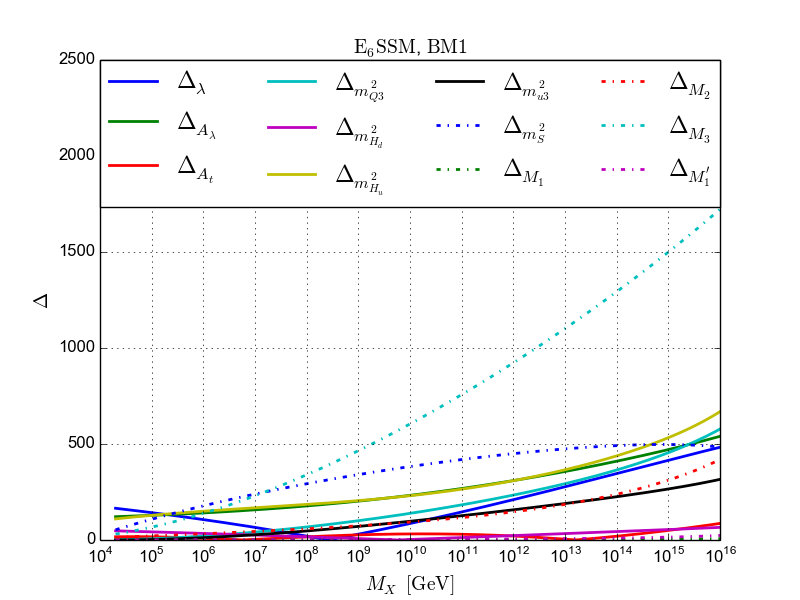
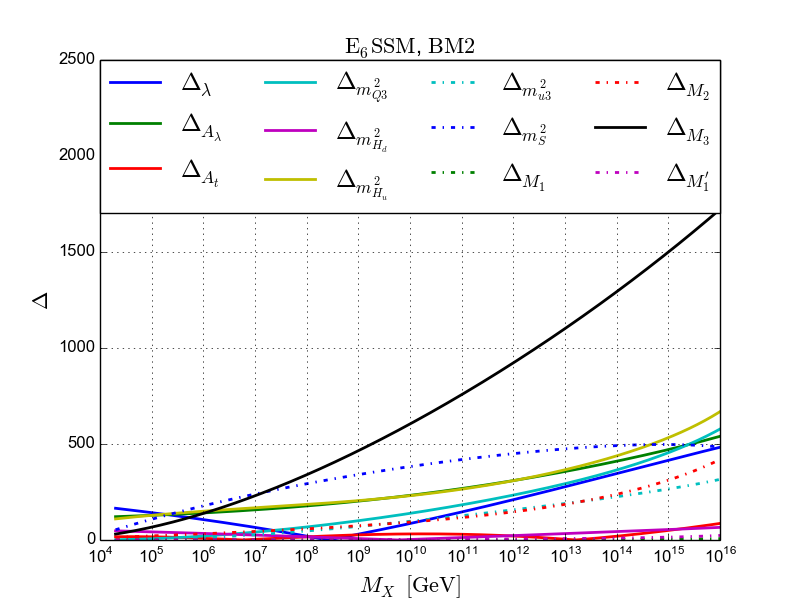
Added reference for gluino limits, updated table with new benchmark values, added short description of the constrained benchmark

diff --git a/paper/e6ssm-tuning-paper.tex b/paper/e6ssm-tuning-paper.tex
@@ -1047,33 +1047,32 @@ differences in the tuning between the two models.
 \hline
 $\tan\beta(M_Z)$ & 10 & 10 & 10 \\
 $s(M_{\mathrm{SUSY}})$ [GeV] & $-$ & 6700 & 6700 \\
-$\kappa_{1,2,3}(M_{\mathrm{SUSY}})$ & $-$ & 0.6 & 0.6 \\
-$\lambda_{1,2}(M_{\mathrm{SUSY}})$ & $-$ & 0.2 & 0.2 \\
-$\mu_{\mathrm{eff}}(M_{\mathrm{SUSY}})$ [GeV] & 689.7 & 1093.3 & -1093.3 \\
-$B_{\mathrm{eff}}(M_{\mathrm{SUSY}})$ [GeV] & 345.7 & 3792.7 & -3792.7 \\
-$A_t(M_{\mathrm{SUSY}})$ [GeV] & -3335.7 & -1100 & -3335.7 \\
-$A_b(M_{\mathrm{SUSY}}), A_\tau (M_{\mathrm{SUSY}})$ [GeV] & 0 & 0 & 0 \\
-$m_{Q3}^2(M_{\mathrm{SUSY}})$ [GeV$^2$] & $4.45379310\times 10^6$ & $4.49655\times 10^5$ & $6.5\times 10^5$ \\
-$m_{u3}^2(M_{\mathrm{SUSY}})$ [GeV$^2$] & $4\times 10^6$ & $5.86207\times 10^5$ & $4.5\times 10^5$ \\
-$M_1(M_{\mathrm{SUSY}})$ [GeV] & 300 & 300 & 300 \\
-$M_2(M_{\mathrm{SUSY}})$ [GeV] & 2000 & 1050 & 2000 \\
+$\kappa_{1,2,3}(M_{\mathrm{SUSY}})$ & $-$ & 0.6 & 0.52 \\
+$\lambda_{1,2}(M_{\mathrm{SUSY}})$ & $-$ & 0.2 & 0.13 \\
+$\mu_{\mathrm{eff}}(M_{\mathrm{SUSY}})$ [GeV] & 689.7 & 1093.3 & 1313.0 \\
+$B_{\mathrm{eff}}(M_{\mathrm{SUSY}})$ [GeV] & 345.7 & 3792.7 & 817.8 \\
+$A_t(M_{\mathrm{SUSY}})$ [GeV] & -3335.7 & -1100 & -1103.2 \\
+$m_{Q3}^2(M_{\mathrm{SUSY}})$ [GeV$^2$] & $4.45\times 10^6$ & $4.50\times 10^5$ & $3.61\times 10^6$ \\
+$m_{u3}^2(M_{\mathrm{SUSY}})$ [GeV$^2$] & $4\times 10^6$ & $5.86\times 10^5$ & $2.04\times 10^6$ \\
+$M_1(M_{\mathrm{SUSY}})$ [GeV] & 300 & 300 & 173.4 \\
+$M_2(M_{\mathrm{SUSY}})$ [GeV] & 2000 & 1050 & 281.4 \\
 $M_3(M_{\mathrm{SUSY}})$ [GeV] & 2000 & 2000 & 1200 \\
-$M_1^\prime(M_{\mathrm{SUSY}})$ [GeV] & $-$ & 300 & 300 \\
+$M_1^\prime(M_{\mathrm{SUSY}})$ [GeV] & $-$ & 300 & 175.2 \\
 \hline
-$M_{Z^\prime}$ [GeV] & $-$ & 2473.2 & 2473.1 \\
-$m_{h_1}$ [GeV] & 124.3 & 125.0 & 124.9 \\
-$m_{\tilde{t}_1}$ [GeV] & 1942.1 & 993.8 & 839.6 \\
-$m_{\tilde{t}_2}$ [GeV] & 2220.1 & 1174.8 & 1285.2 \\
-$m_{\tilde{g}}$ [GeV] & 2259.8 & 2290.0 & 1453.8\\
+$M_{Z^\prime}$ [GeV] & $-$ & 2473.2 & 2512.7 \\
+$m_{h_1}$ [GeV] & 124.3 & 125.0 & 126.2 \\
+$m_{\tilde{t}_1}$ [GeV] & 1942.1 & 993.8 & 1665.0 \\
+$m_{\tilde{t}_2}$ [GeV] & 2220.1 & 1174.8 & 2094.4 \\
+$m_{\tilde{g}}$ [GeV] & 2259.8 & 2290.0 & 1407.4\\
 \hline
-$\Delta(M_X=20\textrm{ TeV})$ & 157.3 & 165.3 & 228.5 \\
-$\Delta(M_X=10^{16}\textrm{ GeV})$ & 1089.0 & 1722.3 & 917.6
+$\Delta(M_X=20\textrm{ TeV})$ & 157.3 & 165.3 & 402.1 \\
+$\Delta(M_X=10^{16}\textrm{ GeV})$ & 1089.0 & 1722.3 & 546.7
 \end{tabular}
 \end{ruledtabular}
 \caption{Parameters and masses for the MSSM point and the E$_6$SSM benchmark points 
-BM1 and BM2 for which the fine tuning as a function of cutoff scale is studied. For the
-E$_6$SSM benchmarks we define $\mu_{\mathrm{eff}}\equiv \lambda s/\sqrt{2}$ and
-$B_{\mathrm{eff}}=A_\lambda$. All other (diagonal) soft scalar squared masses not shown above are set to $2.5\times 10^7$ GeV$^2$, and all soft trilinears are set to zero. In the E$_6$SSM, we additionally set $\mu^\prime=5000$ GeV and $B\mu^\prime=5000$ GeV$^2$.}
+BM1 and BM2. For the
+E$_6$SSM we define $\mu_{\mathrm{eff}}\equiv \lambda s/\sqrt{2}$ and
+$B_{\mathrm{eff}}=A_\lambda$. In BM1 all other (diagonal) soft scalar squared masses not shown above are set to $(5\mathrm{ TeV})^2$, the soft trilinears $A_b$, $A_\tau=0$, $\mu^\prime=5000$ GeV and $B\mu^\prime=5000$ GeV$^2$. In BM2 the parameters not shown above are set to the values obtained by running the cE$_6$SSM point with $m_0=2.2$ TeV, $A_0=500$ GeV, $M_{1/2}=1003$ GeV, $\kappa_{1,2,3}(M_X)=0.1923$, $\lambda(M_X)=0.2646$ to the SUSY scale, and setting $\mu^\prime(M_{\mathrm{SUSY}})=897.9$ GeV and $B\mu^\prime(M_{\mathrm{SUSY}})=-4.2\times10^5$ GeV$^2$.}
 \label{tab:benchmarks}
 \end{table}
 
@@ -1156,17 +1155,28 @@ through the usual mechanism \footnote{Wherein $m_{H_u}^2(M_{SUSY})$
   scalar masses for the stops.}.
 
 
-By contrast the tuning for E$_6$SSM BM2 is very different.  This point
+By contrast the tuning for E$_6$SSM BM2 is very different. This point
 was chosen as it had much lighter gluino mass that is just
-above the experimental limit of $1.4$ TeV \cite{}.  At $20$ TeV it was
-not amongst the lowest tuned points, since at that scale the tree
+above the experimental limit of $1.4$ TeV \cite{Aad:2014lra}. 
+At $20$ TeV this benchmark is not amongst the lowest tuned points, since at that scale the tree
 level tuning from $M_{Z^\prime}$ dominates.  However the reduction in
 $M_3$ means that $\Delta_{M_3}$ is substantially lower and only
-becomes the dominant tuning very close to the GUT scale, giving a
-tuning at $10^{16}$ GeV of $\approx 550$, which is far below that of the
+becomes the dominant tuning at a much larger scale of $M_X\gtrsim 10^{12}-10^{13}$ GeV, giving a
+tuning at $10^{16}$ GeV of $\approx 546$, which is far below that of the
 other two benchmark points.  
 
-
+In addition to this, the soft parameters in BM2 follow a pattern similar to that found in the constrained
+model. With the exception of the parameters $m_{Q3}^2$, 
+$m_{u3}^2$, $m_{H_d}^2$, $m_{H_u}^2$, and $M_3$, the values of which are given in Table \ref{tab:benchmarks}, 
+the soft masses at the SUSY scale correspond to the values that result in the cE$_6$SSM with $m_0=2.2$ TeV, 
+$M_{1/2}=1003$ GeV, $A_0=500$ GeV, $\kappa_{1,2,3}(M_X)=0.1923$, $\lambda(M_X)=0.2646$ and
+$\lambda_{1,2}(M_X)=0.1$. This leads to a significant reduction in the contributions to the RG running of $m_{H_u}^2$ and $m_{Q3}^2$ coming from terms of the form $g_1^2\Sigma_1$ and, to a lesser extent, $g_1'^2\Sigma_1'$. Here we define (see also Eq. (\ref{}))
+\begin{align*}
+\Sigma_1&=\sum_{i=1}^3\left ( m_{Qi}^2-2m_{ui}^2+m_{di}^2+m_{ei}^2-m_{Li}^2+m_{H_{ui}}^2-m_{H_{di}}^2+m_{\overline{D}_i}^2-m_{Di}^2\right )-m_{H'}^2+m_{\overline{H'}}^2,\\
+\Sigma_1'&=\sum_{i=1}^3\left ( 6m_{Qi}^2+3m_{ui}^2+6m_{di}^2+m_{ei}^2+4m_{Li}^2-4m_{H_{ui}}^2-6m_{H_{di}}^2+5m_{Si}^2-9m_{\overline{D}_i}^2-6m_{Di}^2\right )\\
+&\quad{}+4m_{H'}^2-4m_{\overline{H'}}^2.
+\end{align*}
+In the unconstrained case, this contribution acts to drive up the values of $m_{Q3}^2$ and $m_{H_u}^2$, and thus the associated tuning sensitivities, at the input scale $M_X$. In the case of BM2, on the other hand, the reduced splitting between the soft masses leads to a much smaller contribution from these terms. Together with the reduction in $M_3$ described above, this allows to maintain the observed low fine tuning at very large values of $M_X$.
 
 \section{\label{sec:conclusion}Conclusions}
 
